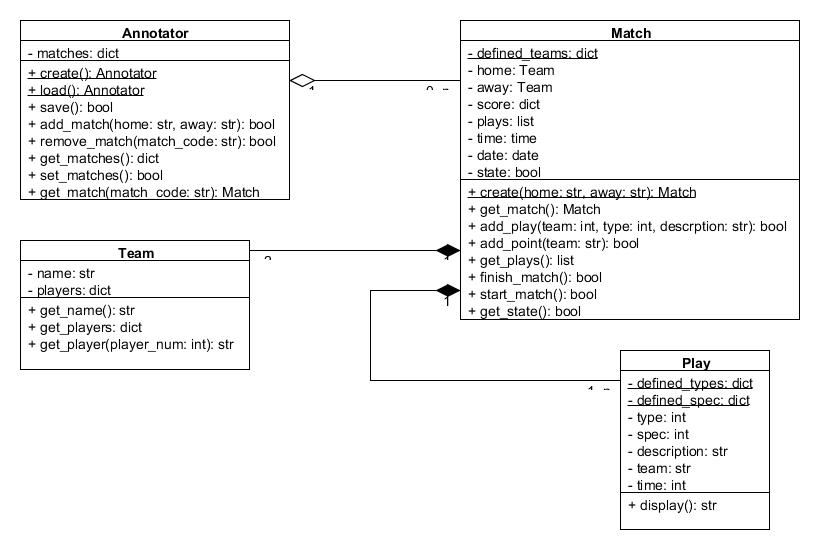
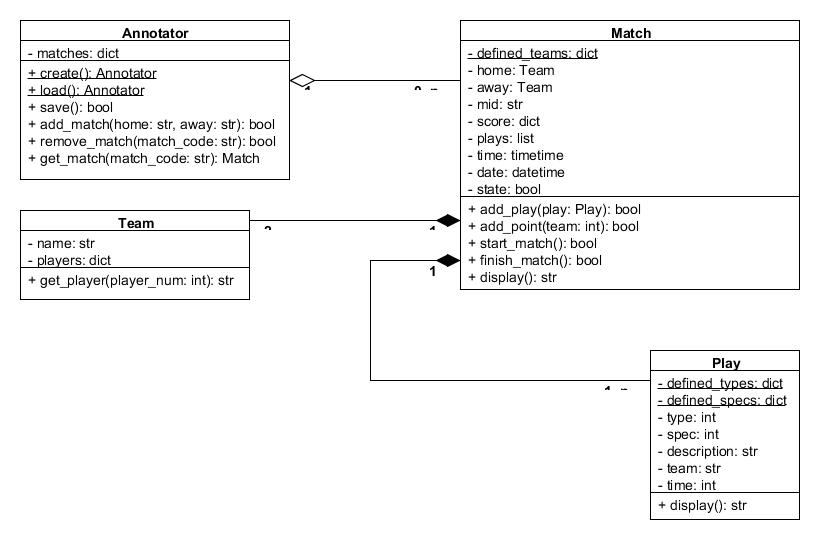
Merging and updating project

diff --git a/soccerscores/core/match.py b/soccerscores/core/match.py
@@ -1,0 +1,113 @@
+from soccerscores.core.team import Team
+import datetime as dt
+
+
+class Match:
+
+    '''
+    Match class.
+    '''
+    __defined_teams = {1: 'home', 2: 'away'}
+    __separator = r'vs'
+
+    def __init__(self, home, away):
+        '''
+        Constructor
+        '''
+
+        if isinstance(home, Team) and isinstance(away, Team):
+            self.__home = home
+            self.__away = away
+        else:
+            raise Exception('Invalid teams.')
+
+        self.__date = dt.date.today()
+        self.__time = None
+        self.__state = None
+        self.__score = {1: 0, 2: 0}
+        self.__plays = []
+
+        # Creating the match id
+        self.__mid = (
+            home.name[:3].upper() +
+            self.__separator +
+            away.name[:3].upper() +
+            self.__date.strftime('%d'))
+
+    def add_play(self, play):
+        '''
+        Add a given play to the plays stack of the given Match.
+        '''
+        return True
+
+    def add_point(self, team):
+        '''
+        Add one point to a valid team in the score.
+        '''
+        try:
+            self.__score[team] = self.__score[team] + 1
+        except:
+            return False
+        return True
+
+    def start_match(self):
+        '''
+        Set the state of the match to start.
+        '''
+        if self.__state:
+            return False
+        else:
+            self.__state = True
+            self.__time = None
+        return True
+
+    def finish_match(self):
+        '''
+        Set the state of the match to finish.
+        '''
+        self.__state = False
+        return True
+
+    def display(self):
+        '''
+        Return the string format description for the given match.
+        '''
+        return (
+            self.__mid + ' '*3 +
+            self.__home.name + ' ' +
+            self.__separator + ' ' +
+            self.__away.name + ' '*3 +
+            str(self.__score[1]) + ' - ' +
+            str(self.__score[2]))
+
+    @property
+    def home(self):
+        '''
+        Getter for the home team attribute.
+        '''
+        return self.__home
+
+    @property
+    def away(self):
+        '''
+        Getter for the away team attribute.
+        '''
+        return self.__away
+
+    @property
+    def mid(self):
+        '''
+        Getter for the match id.
+        '''
+        return self.__mid
+
+    @property
+    def state(self):
+        '''
+        Getter for the match state.
+        '''
+        return self.__state
+
+    @property
+    def score(self):
+        return self.__score

diff --git a/tests/core/team.py b/tests/core/team.py
@@ -26,6 +26,7 @@ class Test(unittest.TestCase):
         team = Team(name='USA', players={1: 'Ronny Atom', 2: 'Avigail Tracy',
                     3: 'John Bart', 4: 'Michael Jones', 5: 'Hector Quita',
                     6: 'Luis Bill', 7: 'Tron Hallow'})
+
         msg = "Team creation fail."
         self.assertIsInstance(team, Team, msg)  # 1.0
         print "Team Test Set: 1.0 Success"
@@ -34,6 +35,7 @@ class Test(unittest.TestCase):
             team = Team(name='CHINA', players={1: 'Ronny Atom',
                         2: 'Avigail Tracy', 3: 'John Bart', 4: 'Michael Jones',
                         5: 'Hector Quita', 6: 'Luis Bill'})
+
         msg = "Team with a minimum 7 players fail"
         self.assertEqual(context.exception.message,
                          'Invalid players dictionary.')  # 1.1.a
@@ -45,6 +47,7 @@ class Test(unittest.TestCase):
                         5: 'Hector Quita', 6: 'Luis Bill', 7: 'Tron Hallow',
                         8: 'Hector Quita', 9: 'Luis Bill', 10: 'Tron Hallow',
                         11: 'Hector Quita', 12: 'Luis Bill'})
+
         msg = "Team with a maximum 12 player fail"
         self.assertEqual(context.exception.message,
                          'Invalid players dictionary.')  # 1.1.b
@@ -54,6 +57,7 @@ class Test(unittest.TestCase):
             team = Team(name=0, players={1: 'Ronny Atom',
                         2: 'Avigail Tracy', 3: 'John Bart', 4: 'Michael Jones',
                         5: 'Hector Quita', 6: 'Luis Bill', 7: 'Tron Pujols'})
+
         msg = "Team receiving a str name fail"
         self.assertEqual(context.exception.message,
                          'Invalid team name.')  # 1.2
@@ -62,6 +66,7 @@ class Test(unittest.TestCase):
         team = Team(name='Chile', players={1: 'Ronny Atom', 2: 'Avigail Tracy',
                     3: 'John Bart', 4: 'Michael Jones', 5: 'Hector Quita',
                     6: 'Luis Bill', 7: 'Tron Pujols'})
+
         msg = "Team return a str player name fail"
         self.assertIsInstance(team.get_player(1), str)  # 2.0
         print "Team Test Set: 2.0 Success"
@@ -69,6 +74,7 @@ class Test(unittest.TestCase):
         team = Team(name='Chile', players={1: 'Ronny Atom', 2: 'Avigail Tracy',
                     3: 'John Bart', 4: 'Michael Jones', 5: 'Hector Quita',
                     6: 'Luis Bill', 7: 'Tron Pujols'})
+
         msg = "Team should return a player name given its number fail"
         self.assertEqual(team.get_player(1), 'Ronny Atom')  # 2.1
         print "Team Test Set: 2.1 Success"

diff --git a/tests/core/match.py b/tests/core/match.py
@@ -1,0 +1,58 @@
+import unittest
+from soccerscores.core.match import Match
+from soccerscores.core.team import Team
+
+
+class Test(unittest.TestCase):
+
+    '''
+    1.0 - Match should be able to create an object instance.
+    1.1 - Match should be able to start a match.
+    1.2 - Match should be able to finish a match.
+    1.3 - Match should be able to add points.
+    1.4 - Match should be able to display a summary of itself.
+    '''
+
+    def setUp(self):
+        print ""
+        print "################################################"
+
+    def tearDown(self):
+        print "################################################"
+
+    def testOne(self):
+        home = Team(name='Barcelona')
+        away = Team(name='Bayern Munich')
+
+        match = Match(home=home,
+                      away=away)
+
+        msg = "Match creation fail."
+        self.assertIsInstance(match, Match, msg)  # 1.0
+        print "Match Test Set: 1.0 Success"
+
+        match.start_match()
+
+        msg = "Start match fail."
+        self.assertTrue(match.state, msg)  # 1.1
+        print "Match Test Set: 1.1 Success"
+
+        match.finish_match()
+
+        msg = "Finish match fail."
+        self.assertFalse(match.state, msg)  # 1.2
+        print "Match Test Set: 1.2 Success"
+
+        match.add_point(team=1)
+        match.add_point(team=1)
+        match.add_point(team=2)
+
+        msg = "Score match fail."
+        self.assertEqual(match.score, {1: 2, 2: 1}, msg)  # 1.3
+        print "Match Test Set: 1.3 Success"
+
+        summary = match.display()
+
+        msg = "Display summary match fail."
+        self.assertIsInstance(summary, str, msg)  # 1.4
+        print "Match Test Set: 1.4 Success"

diff --git a/soccerscores/core/team.py b/soccerscores/core/team.py
@@ -2,7 +2,7 @@ class Team:
     '''
     '''
 
-    def __init__(self, name, players):
+    def __init__(self, name, players=None):
         '''
         Constructor
         '''
@@ -11,7 +11,9 @@ class Team:
         else:
             raise Exception("Invalid team name.")
 
-        if (isinstance(players, dict) and len(players.keys()) > 6
+        if not players:
+            self.__players = {}
+        elif (isinstance(players, dict) and len(players.keys()) > 6
                 and len(players.keys()) < 12):
             self.__players = players
         else:
@@ -35,4 +37,7 @@ class Team:
         '''
         Returns a single player name from the players dictionary.
         '''
-        return self.__players[player_num]
+        try:
+            return self.__players[player_num]
+        except:
+            raise Exception('Invalid player number.')

diff --git a/test_suite.py b/test_suite.py
@@ -1,0 +1,29 @@
+import unittest
+from tests.access import annotator
+from tests.core import match
+from tests.core import team
+from tests.core import play
+import sys
+
+
+def suite():
+    '''
+    Gather all the tests in a test suite.
+    '''
+    test_suite = unittest.TestSuite()
+    test_suite.addTest(unittest.makeSuite(annotator.Test))
+    test_suite.addTest(unittest.makeSuite(match.Test))
+    test_suite.addTest(unittest.makeSuite(team.Test))
+    test_suite.addTest(unittest.makeSuite(play.Test))
+    return test_suite
+
+if __name__ == "__main__":
+    test_suite = suite()
+
+    runner = unittest.TextTestRunner(descriptions=True, verbosity=1)
+    result = runner.run(test_suite)
+    ran_test_msg = "Tests ran: {count}".format(count=result.testsRun)
+    print ran_test_msg
+
+    if not result.wasSuccessful():
+        sys.exit(1)

diff --git a/soccerscores/core/play.py b/soccerscores/core/play.py
@@ -1,5 +1,6 @@
 class Play:
     '''
+    Play class.
     '''
 
     __defined_types = {0: 'Gol', 1: 'Red Card', 2: 'Yellow Card', 3: 'Change',
@@ -8,7 +9,7 @@ class Play:
                        2: 'Saque de meta', 3: 'Pase', 4: 'Centro',
                        5: 'Despeje', 6: 'Posicion adelantada', 404: ''}
 
-    def __init__(self, ptype, spec, team, descrip, time):
+    def __init__(self, ptype, spec, team, descrip, time=None):
         '''
         Constructor
         '''
@@ -111,4 +112,6 @@ class Play:
         '''
         Returns a string with time, type and description of the play.
         '''
-        return str(self.__time) + "' " + self.__defined_types[self.__ptype] + ", " + self.__descrip
+        return (str(self.__time) + "' " +
+                self.__defined_types[self.__ptype] +
+                ", " + self.__descrip)

diff --git a/tests/access/annotator.py b/tests/access/annotator.py
@@ -1,5 +1,7 @@
 import unittest
 from soccerscores.access.annotator import Annotator
+from soccerscores.core.match import Match
+from soccerscores.core.team import Team
 
 
 class TestMatch():
@@ -42,9 +44,11 @@ class Test(unittest.TestCase):
         self.assertIsInstance(annotator, Annotator, msg)  # 1.0
         print "Annotator Test Set: 1.0 Success"
 
-        match = TestMatch(home='FC Barcelona',
-                          away='FC Bayern Munich',
-                          mid='FCBvsFCBM')
+        home = Team(name='Barcelona')
+        away = Team(name='Bayern Munich')
+
+        match = Match(home=home,
+                      away=away)
 
         annotator.add_match(match)
 

diff --git a/soccerscores/access/annotator.py b/soccerscores/access/annotator.py
@@ -62,9 +62,3 @@ class Annotator:
         Getter for the matches attribute.
         '''
         return self.__matches
-    @matches.setter
-    def matches(self, value):
-        '''
-        Setter for the matches attribute.
-        '''
-        self.__matches = value
